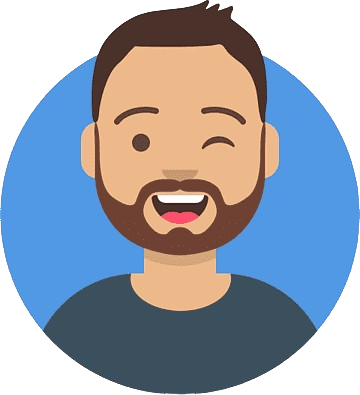
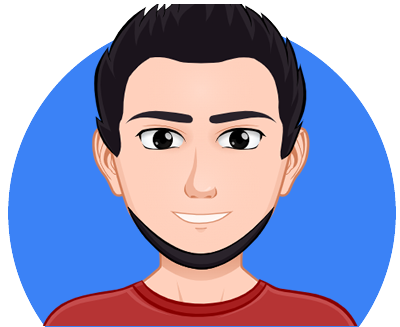
Visual changes
Se agregan cambios visuales y apartado de proyectos

diff --git a/app/components/home/Projects.tsx b/app/components/home/Projects.tsx
@@ -1,26 +1,34 @@
 import React, { Fragment } from 'react'
 import ErenJaeger from '@/public/images/ErenJaeger.png'
+import Ass from '@/public/images/ass.jpg'
 import { isPair } from '@/app/utilities/utilities'
 import Image from 'next/image'
+import Link from 'next/link'
 
 const Projects = () => {
 
 
 	const projects = [
 		{
-			title: 'lorem',
-			text: 'Lorem ipsum dolor sit amet consectetur adipisicing elit. Quod aperiam illo, rerum ipsa necessitatibus soluta voluptate consequatur vero quaerat veniam asperiores harum minima praesentium nulla reprehenderit distinctio assumenda eaque itaque?',
-			image: ErenJaeger
+			title : 'lorem',
+			text  : 'Lorem ipsum dolor sit amet consectetur adipisicing elit. Quod aperiam illo, rerum ipsa necessitatibus soluta voluptate consequatur vero quaerat veniam asperiores harum minima praesentium nulla reprehenderit distinctio assumenda eaque itaque?',
+			image : ErenJaeger,
+			image2: Ass,
+			url   : 'project-1',
 		},
 		{
-			title: 'lorem 2',
-			text: 'Lorem ipsum dolor sit amet consectetur adipisicing elit. Quod aperiam illo, rerum ipsa necessitatibus soluta voluptate consequatur vero quaerat veniam asperiores harum minima praesentium nulla reprehenderit distinctio assumenda eaque itaque?',
-			image: ErenJaeger
+			title : 'lorem 2',
+			text  : 'Lorem ipsum dolor sit amet consectetur adipisicing elit. Quod aperiam illo, rerum ipsa necessitatibus soluta voluptate consequatur vero quaerat veniam asperiores harum minima praesentium nulla reprehenderit distinctio assumenda eaque itaque?',
+			image : ErenJaeger,
+			image2: Ass,
+			url   : 'project-2',
 		},
 		{
-			title: 'lorem 3',
-			text: 'Lorem ipsum dolor sit amet consectetur adipisicing elit. Quod aperiam illo, rerum ipsa necessitatibus soluta voluptate consequatur vero quaerat veniam asperiores harum minima praesentium nulla reprehenderit distinctio assumenda eaque itaque?',
-			image: ErenJaeger
+			title : 'lorem 3',
+			text  : 'Lorem ipsum dolor sit amet consectetur adipisicing elit. Quod aperiam illo, rerum ipsa necessitatibus soluta voluptate consequatur vero quaerat veniam asperiores harum minima praesentium nulla reprehenderit distinctio assumenda eaque itaque?',
+			image : ErenJaeger,
+			image2: Ass,
+			url   : 'project-3',
 		},
 	]
 
@@ -31,22 +39,30 @@ const Projects = () => {
             <div className='flex flex-col justify-center'>
                 <h2 className='text-2xl lg:text-4xl font-bold uppercase text-center mb-8'>Projects</h2>
 				
-                <p className='text-lg/7 md:text-2xl/7 text-center lg:pl-32 lg:pr-32 mb-14'>Here you will find some of the personal and clients projects that I created with each project containing its own case study </p>              
+                <p className='text-lg/7 md:text-2xl/7 text-center lg:pl-32 lg:pr-32 mb-14 text-gray-700'>Here you will find some of the personal and clients projects that I created with each project containing its own case study </p>              
             </div>
 
-				{/* <div key={i} className={`${isPair(i) && 'md:flex-row-reverse'} flex flex-col flex-wrap md:flex-row`}> */}
-				<div>
+				<div className='p-10 md:px-10 lg:px-32 '>
 				{
 					projects.map((e,i) => (
-						<div key={i} className={`grid grid-cols-1 md:grid-cols-2 items-center mb-5`}>
-							<div className={`order-1 md:order-${isPair(i) ? '2' : '1'} flex justify-center`}>
-								<Image src={ErenJaeger} alt={e.title} width={200} />
+						<div key={i} className={`flex flex-col ${isPair(i) ? 'md:flex-row' : 'md:flex-row-reverse'} items-center mb-10 border-b last:border-b-0 border-gray-300 pb-10`}>
+							<div className={`md:basis-5/12 ${isPair(i) ? 'me-0 md:me-10' : ''}`}>
+								<article>
+									<Image src={e.image} alt={e.title} />
+									<Image src={e.image2} alt={e.title} />
+								</article>
 							</div>
-							<div className={`order-2 md:order-${isPair(i) ? '1' : '2'}`}>
-								<p className='mb-4 text-2xl'>{e.title}</p>
-								<p>{e.text}</p>
+							<div className={`md:basis-7/12 text-center md:text-left ${!isPair(i) ? 'me-0 md:me-10' : ''}`}>
+								<p className='mb-4 text-2xl  mt-10 md:mt-0 font-bold'>{e.title}</p>
+								<p className='text-gray-700'>{e.text}</p>
+								<div className='inline-block'>
+									<Link 
+										href={`/project/${e.url}`} 
+										className='btn-secondary'
+									>View More...</Link>
+								</div>
 							</div>
-						</div>				
+						</div>			
 					))
 				}
 				</div>

diff --git a/app/components/Footer.tsx b/app/components/Footer.tsx
@@ -1,6 +1,7 @@
 import React from 'react'
 import { FaLinkedin, FaGithub  } from "react-icons/fa6";
 import { FaYoutube, FaWhatsapp  } from "react-icons/fa";
+import Link from 'next/link';
 const Footer = () => {
   return (
     <footer className='bg-gray-900'>
@@ -13,15 +14,21 @@ const Footer = () => {
                 <div className='mb-10 md:mb-0 basis-1/4'>
                     <p className='font-bold uppercase mb-6'>Social</p>
                     <div className='flex flex-row items-center gap-3'>
-                        <FaLinkedin size={25}/>
-                        <FaGithub size={25}/>
-                        <FaYoutube size={25}/>
+                        <Link href={'https://mx.linkedin.com/in/keven-maria-valenzuela-3910001a3'}>
+                            <FaLinkedin size={25}/>
+                        </Link>
+                        <Link href={'https://github.com/k3w1n31t0r'}>
+                            <FaGithub size={25}/>
+                        </Link>
+                        <Link href={'https://youtube.com'}>
+                            <FaYoutube size={25}/>
+                        </Link>
                         <FaWhatsapp size={25}/>
                     </div>
                 </div>
             </div>
             <div className='border-t-gray-500 border-t margin py-10'>
-                <p className='text-center text-xs'>Made in 2024 by <a href='/' className='underline font-semibold'>Keven María</a></p>
+                <p className='text-center text-xs'>Made in 2024 by <Link href='/' className='underline font-semibold'>Keven María</Link></p>
             </div>
 
         </div>

diff --git a/app/globals.css b/app/globals.css
@@ -19,3 +19,68 @@ nav.active {
 .btn-primary:hover{    
     @apply -translate-y-3 bg-lime-300
 }
+
+.btn-secondary{    
+    @apply uppercase rounded bg-blue-500 text-white px-12 py-3 font-bold mt-10 shadow-lg shadow-gray-500/50 flex items-center ease-linear duration-200
+}
+.btn-secondary:hover{    
+    @apply -translate-y-1 bg-blue-700
+}
+
+/* Hover images styles*/
+
+article {
+    position: relative;
+    /* width: 250px; */
+    width: 100%;
+    transition: all 0.3s ease;
+  }
+  
+  article img:first-child {
+    box-shadow: 0 60px 60px -60x rgba(0, 30, 255, 0.5);
+    border-radius: 4px;
+    object-fit: cover;
+    width: 100%; 
+  }
+  
+  article img:last-child {
+    position: absolute;
+    /* width: 200px; */
+    width: 90%;
+    bottom: 0;
+    left: 0;
+    right: 0;
+    margin: auto;
+    transform: translateY(25%);
+    transition: 0.3s ease;
+    opacity: 0;
+  }
+  
+  article:hover {
+    transform: perspective(250px) rotateX(10deg) translateY(-5%) translateZ(0);
+  }
+  
+  article::before {
+    content: "";
+    position: absolute;
+    bottom: 0;
+    height: 100%;
+    width: 100%;
+    background-image: linear-gradient(
+      to bottom,
+      transparent 10%,
+      rgba(0, 0, 0, 0.5) 50%,
+      rgba(0, 0, 0) 95%
+    );
+    opacity: 0;
+    transition: all 0.3s ease;
+  }
+  
+  article:hover::before {
+    opacity: 1;
+  }
+  
+  article:hover img:last-child {
+    opacity: 1;
+    transform: translateY(10%);
+  }

diff --git a/app/components/home/Home.tsx b/app/components/home/Home.tsx
@@ -4,18 +4,20 @@ import avatar from '@/public/images/avatar.png'
 const Home = () => {
   return (
     <main>
-        <section id="home">
-            <div className='p-10 md:pt-20'>
+        <section id="home" className='mih-h-screen'>
+            <div className='p-10'>
                 <div className='flex flex-col justify-center'>
                     <h1 className='text-3xl md:text-6xl font-bold uppercase text-center mb-8'>Hi, I´m Keven María, Dev</h1>
 
                     <h2 className='text-lg/7 md:text-2xl/10 text-center md:pl-32 md:pr-32 lg:pl-72 lg:pr-72 mb-14'>Hi! I am a web developer building the frontend and backend of websites and web applications, also have experience with Android and IOS mobile applications</h2>
 
-                    <Image 
-                        src={avatar}
-                        alt='Avatar image' 
-                        className='mx-auto w-32 sm:w-48 md:w-72 h-auto'
-                    />
+                    <div className='border-b border-gray-300'>
+                        <Image 
+                            src={avatar}
+                            alt='Avatar image' 
+                            className='mx-auto w-32 sm:w-48 md:w-72 h-auto'
+                        />
+                    </div>
 
                 </div>
 

diff --git a/app/components/Navbar.tsx b/app/components/Navbar.tsx
@@ -4,7 +4,8 @@ import Image from 'next/image';
 import Link from 'next/link'
 import React, { useState } from 'react'
 import { FaBars } from 'react-icons/fa';
-import Eren from '@/public/images/ErenJaeger.png'
+import Km from '@/public/images/km.png'
+import Km2 from '@/public/images/km2.png'
 const Navbar = () => {
 
     const [menuOpen, setMenuOpen] = useState(false);
@@ -15,8 +16,9 @@ const Navbar = () => {
     return (
         <header className='bg-gray-200 p-5 flex flex-col md:flex-row items-center justify-between'>
             <div className="mb-4 md:mb-0 flex items-center">
-                <Image src={Eren} alt='Image Placeholder dev' className='w-14 h-14 rounded'/>
-                <p className='ml-3 font-bold text-lg'>Keven maria</p>
+                <Link href={'/'}>
+                    <Image src={Km2} alt='Image Placeholder dev' className='w-28 h-auto rounded'/>
+                </Link>
             </div>
             {/* <nav className={`md:flex flex-col md:flex-row ${menuOpen ? 'flex' : 'hidden'}`}> */}
             <nav className={`flex flex-col md:flex-row md:max-h-screen md:overflow-visible md:transition-none transition-max-height ease-in-out duration-300 ${menuOpen ? 'active' : ''}`}>

diff --git a/app/layout.tsx b/app/layout.tsx
@@ -20,9 +20,9 @@ export default function RootLayout({
 children: React.ReactNode
 }) {
     return (
-        <html lang="en" className={openSans.className}>
-        {/* <html lang="en" className={inter.className}> */}
-            <body className='bg-gray-200 mx-auto h-[calc(100vh)]'>
+        <html lang="en" className={`${openSans.className} scroll-smooth`}>
+            {/* <body className='bg-gray-200 mx-auto min-h-screen '> */}
+            <body className='bg-gray-200 mx-auto min-h-screen '>
                 <Navbar />
                 {children}
                 <Footer />

diff --git a/app/project/[name]/page.tsx b/app/project/[name]/page.tsx
@@ -1,0 +1,20 @@
+import React from 'react'
+
+interface project {
+    name: string
+}
+
+// export default function Page(params : project) {
+export default function Page({ params }: { params: project }) {
+  return (
+    <main className='min-h-screen'>
+        <section className='p-10 md:p-24'>
+            <h1 className='text-pink-500 text-xl'>
+                {params.name}
+            </h1>
+
+        </section>
+    </main>
+  )
+}
+
